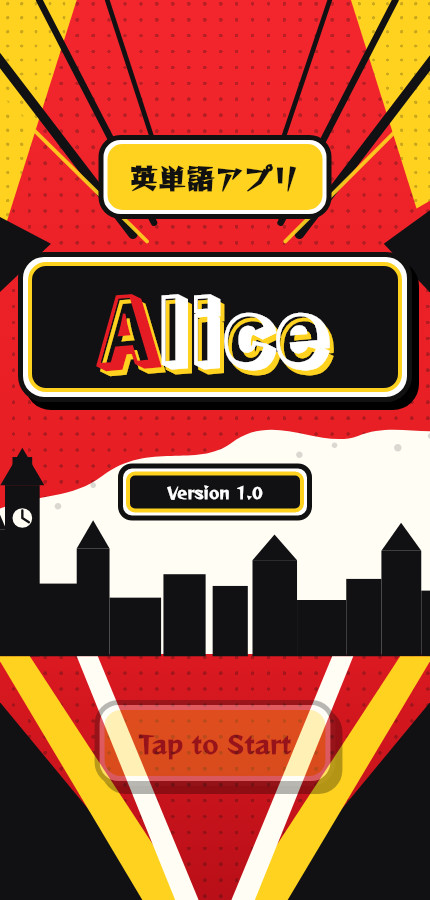
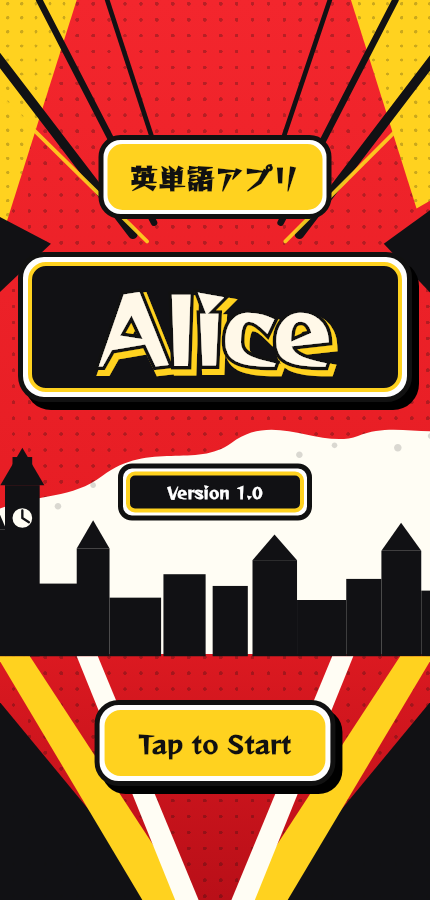
Publish seven-screen comic action audit

Changed region(s): [[0.2116, 0.7778, 0.8163, 0.9022], [0.2116, 0.3111, 0.786, 0.4356]]

diff --git a/comic-action-preview-20260927/index.html b/comic-action-preview-20260927/index.html
@@ -3,7 +3,7 @@
 <head>
 <meta charset="utf-8">
 <meta name="viewport" content="width=device-width,initial-scale=1">
-<title>Alice 漫画・アクション着せ替え</title>
+<title>Alice 漫画・アクション 最終監査</title>
 <style>
 *{box-sizing:border-box}
 body{margin:0;background:#0d0d10;color:#fff;font-family:-apple-system,BlinkMacSystemFont,"Segoe UI",sans-serif}
@@ -14,21 +14,48 @@ p{margin:0;color:#c7c7c7;line-height:1.6}
 .card{background:#18181d;border:3px solid #ffd21f;border-radius:10px;padding:12px;box-shadow:8px 8px 0 #000}
 .card h2{margin:0 0 10px;font-size:18px;color:#ffd21f}
 .card img{display:block;width:100%;height:auto;background:#fff;border:2px solid #111}
-.note{margin-top:10px;color:#bdbdbd;font-size:13px}
 @media(max-width:760px){.grid{grid-template-columns:1fr}h1{font-size:22px}}
 </style>
 </head>
 <body>
 <header>
-<h1>Alice 漫画・アクション着せ替え</h1>
-<p>Rampart One＋Reggae Oneを軸に、黒・赤・黄、網点、集中線、太枠、コミック調の星演出を組み合わせた第1案です。Flutter実描画。</p>
+<h1>Alice 漫画・アクション着せ替え — 7画面最終監査</h1>
+<p>Flutterが430×900で実描画した最新版です。タイトル、LEVEL表裏、問題回答前後、結果、ワールドマップを同一テーマで確認できます。</p>
 </header>
 <main class="grid">
-<section class="card"><h2>1. タイトル</h2><img src="comic_action_title.png" alt="タイトル"></section>
-<section class="card"><h2>2. LEVEL一覧</h2><img src="comic_action_level.png" alt="LEVEL一覧"><div class="note">星リング背面にコミックバーストを追加。</div></section>
-<section class="card"><h2>3. 問題画面</h2><img src="comic_action_quiz.png" alt="問題画面"><div class="note">4択は太枠・低い角丸・強い影。</div></section>
-<section class="card"><h2>4. 結果画面</h2><img src="comic_action_result.png" alt="結果画面"></section>
-<section class="card"><h2>5. ワールドマップ</h2><img src="comic_action_world_map.png" alt="ワールドマップ"></section>
-</main>
+<section class="card">
+  <h2>01 タイトル</h2>
+  <img src="comic_action_title.png" alt="01 タイトル">
+</section>
+
+<section class="card">
+  <h2>02 LEVEL表面</h2>
+  <img src="comic_action_level_front.png" alt="02 LEVEL表面">
+</section>
+
+<section class="card">
+  <h2>03 LEVEL裏面</h2>
+  <img src="comic_action_level_back.png" alt="03 LEVEL裏面">
+</section>
+
+<section class="card">
+  <h2>04 問題・回答前</h2>
+  <img src="comic_action_quiz_unanswered.png" alt="04 問題・回答前">
+</section>
+
+<section class="card">
+  <h2>05 問題・回答後</h2>
+  <img src="comic_action_quiz_answered.png" alt="05 問題・回答後">
+</section>
+
+<section class="card">
+  <h2>06 結果画面</h2>
+  <img src="comic_action_result.png" alt="06 結果画面">
+</section>
+
+<section class="card">
+  <h2>07 ワールドマップ</h2>
+  <img src="comic_action_world_map.png" alt="07 ワールドマップ">
+</section></main>
 </body>
 </html>
